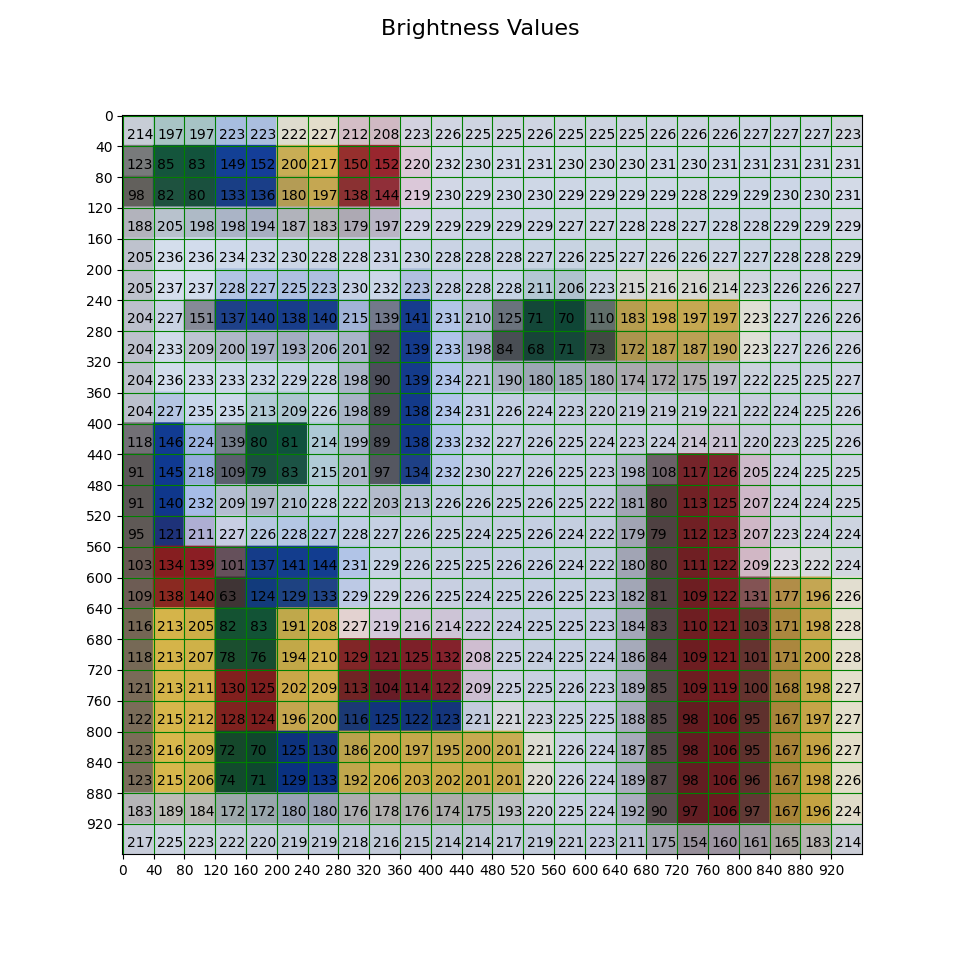
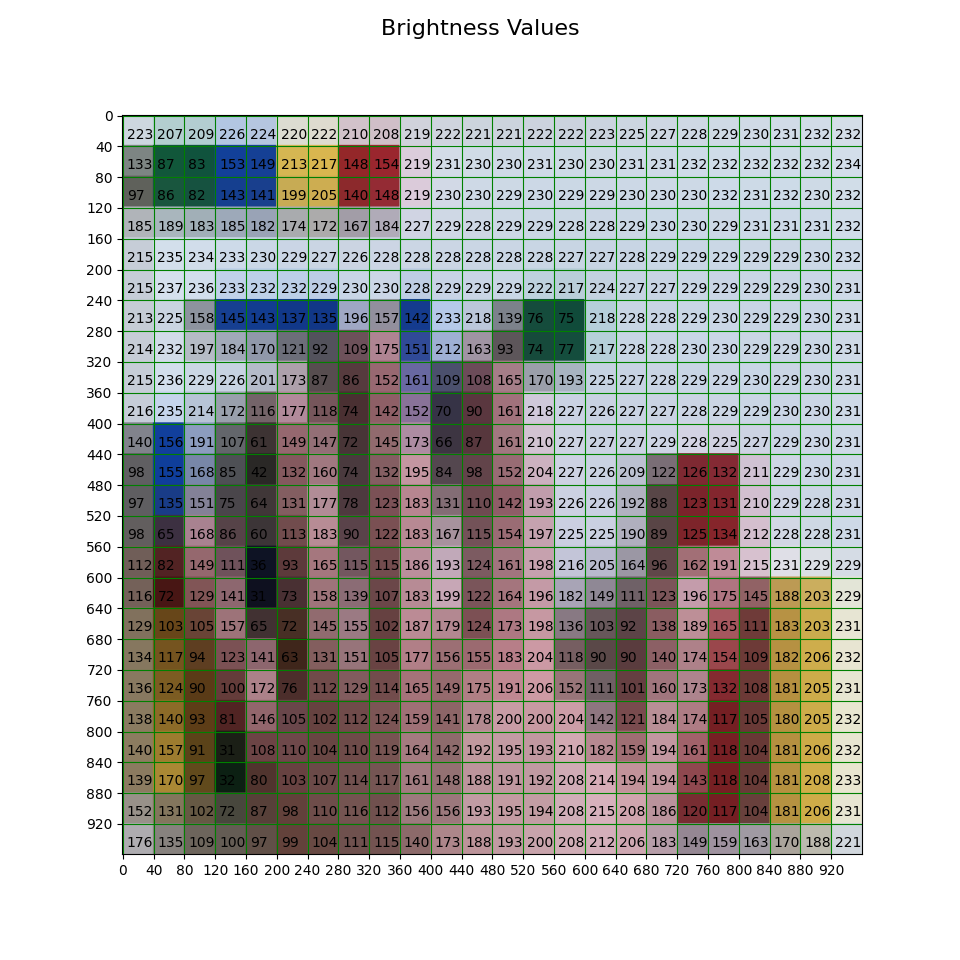
Added detection of unkown regions

diff --git a/colorExperiments.py b/colorExperiments.py
@@ -5,6 +5,14 @@ import cv2
 import matplotlib.pyplot as plt
 import matplotlib.ticker as plticker
 from PIL import Image
+from timeit import default_timer as timer
+
+
+
+# ...
+
+
+
 
 # Take photo
 
@@ -20,13 +28,15 @@ from PIL import Image
 studCount = 24
 
 # Load image into CV
-originalImg = cv2.imread('images/iphone test.jpeg',1)
+originalImg = cv2.imread('images/HandTestA.jpeg',1)
+
+start = timer()
 
 #Corner Coordinates
-topLeft = np.array([396,227])
-topRight = ([771,228])
-bottomLeft =([386,601])
-bottomRight =([772,610])
+topLeft = np.array([343,230])
+topRight = ([724,242])
+bottomLeft =([324,616])
+bottomRight =([719,631])
 pt1 = np.float32([topLeft,topRight,bottomLeft,bottomRight])
 
 # Set height and width of final image
@@ -36,11 +46,11 @@ pt2 = np.float32([[0,0],[width,0],[0,height],[width, height]])
 # Warp the image
 matrix = cv2.getPerspectiveTransform(pt1, pt2)
 warpedImg = cv2.warpPerspective(originalImg, matrix, (width, height))
-cv2.imwrite('images/warpedImg.png', warpedImg)
+#cv2.imwrite('images/warpedImg.png', warpedImg)
 
 # Resize Image
 resizedImg = cv2.resize(warpedImg, (studCount,studCount), interpolation=cv2.INTER_AREA)
-cv2.imwrite('images/resizedImg.png', resizedImg)
+#cv2.imwrite('images/resizedImg.png', resizedImg)
 
 # Convert to HSV
 hsvImg = cv2.cvtColor(resizedImg,cv2.COLOR_BGR2HSV)
@@ -74,17 +84,14 @@ def averageHSV(array,sliceHue = False):
 greenCalib = averageHSV(hsvImg[1:3,1:3])
 blueCalib = averageHSV(hsvImg[1:3,3:5])
 yellowCalib = averageHSV(hsvImg[1:3,5:7])
-redCalib = averageHSV(hsvImg[1:3,7:9],sliceHue = True)
-
-# Special red hue calculation due to centre at 180
-
-
-
+redCalib = averageHSV(hsvImg[1:3,7:9],sliceHue = True) # Special red hue calculation due to centre at 180
+blankCalib = averageHSV(hsvImg[1:3,10:12]) # The calibration value for tiles with no bricks on or shadow
 
 print("Green calibration is {}".format(greenCalib))
 print("Blue calibration is {}".format(blueCalib))
 print("yellow calibration is {}".format(yellowCalib))
 print("Red calibration is {}".format(redCalib))
+print("Blank calibration is {}".format(blankCalib))
 
 # Setting ranges, The + or - range from the detected mean from the calibration blocks
 greenHueRange = 15
@@ -94,17 +101,17 @@ greenBriRange = 40
 greenHueMin = greenCalib[0]-greenHueRange
 greenHueMax = greenCalib[0]+greenHueRange
 greenHueMask = cv2.inRange(hsvImg, np.array([greenHueMin,0,0]), np.array([greenHueMax,255,255]))
-cv2.imwrite('GreenMasks/greenHueMask.png', greenHueMask)
+#cv2.imwrite('GreenMasks/greenHueMask.png', greenHueMask)
 
 greenSatMin = greenCalib[1]-greenSatRange
 greenSatMax = greenCalib[1]+greenSatRange
 greenSatMask = cv2.inRange(hsvImg, np.array([0,greenSatMin,0]), np.array([180,greenSatMax,255]))
-cv2.imwrite('GreenMasks/greenSatMask.png', greenSatMask)
+#cv2.imwrite('GreenMasks/greenSatMask.png', greenSatMask)
 
 greenBriMin = greenCalib[2]-greenBriRange
 greenBriMax = greenCalib[2]+greenBriRange
 greenBriMask = cv2.inRange(hsvImg, np.array([0,0,greenBriMin]), np.array([180,255,greenBriMax]))
-cv2.imwrite('GreenMasks/greenBriMask.png', greenBriMask)
+#cv2.imwrite('GreenMasks/greenBriMask.png', greenBriMask)
 
 greenBricks = np.zeros([studCount,studCount])
 
@@ -114,7 +121,7 @@ for rowIndex in range(greenBricks.shape[0]):
         if (greenHueMask[rowIndex,colIndex] == 255) and (greenSatMask[rowIndex,colIndex] == 255) and (greenBriMask[rowIndex,colIndex] == 255):
             greenBricks[rowIndex,colIndex] = 1
 
-cv2.imwrite('GreenMasks/GreenBricks.png', greenBricks*255)
+#cv2.imwrite('GreenMasks/GreenBricks.png', greenBricks*255)
 
 
 blueHueRange = 10
@@ -124,17 +131,17 @@ blueBriRange = 28
 blueHueMin = blueCalib[0]-blueHueRange
 blueHueMax = blueCalib[0]+blueHueRange
 blueHueMask = cv2.inRange(hsvImg, np.array([blueHueMin,0,0]), np.array([blueHueMax,255,255]))
-cv2.imwrite('BlueMasks/blueHueMask.png', blueHueMask)
+#cv2.imwrite('BlueMasks/blueHueMask.png', blueHueMask)
 
 blueSatMin = blueCalib[1]-blueSatRange
 blueSatMax = blueCalib[1]+blueSatRange
 blueSatMask = cv2.inRange(hsvImg, np.array([0,blueSatMin,0]), np.array([180,blueSatMax,255]))
-cv2.imwrite('BlueMasks/blueSatMask.png', blueSatMask)
+#cv2.imwrite('BlueMasks/blueSatMask.png', blueSatMask)
 
 blueBriMin = blueCalib[2]-blueBriRange
 blueBriMax = blueCalib[2]+blueBriRange
 blueBriMask = cv2.inRange(hsvImg, np.array([0,0,blueBriMin]), np.array([180,255,blueBriMax]))
-cv2.imwrite('BlueMasks/blueBriMask.png', blueBriMask)
+#cv2.imwrite('BlueMasks/blueBriMask.png', blueBriMask)
 
 blueBricks = np.zeros([studCount,studCount])
 
@@ -144,7 +151,7 @@ for rowIndex in range(blueBricks.shape[0]):
         if (blueHueMask[rowIndex,colIndex] == 255) and (blueSatMask[rowIndex,colIndex] == 255) and (blueBriMask[rowIndex,colIndex] == 255):
             blueBricks[rowIndex,colIndex] = 1
 
-cv2.imwrite('BlueMasks/blueBricks.png', blueBricks*255)
+#cv2.imwrite('BlueMasks/blueBricks.png', blueBricks*255)
 
 
 yellowHueRange = 3
@@ -154,17 +161,17 @@ yellowBriRange = 38
 yellowHueMin = yellowCalib[0]-yellowHueRange
 yellowHueMax = yellowCalib[0]+yellowHueRange
 yellowHueMask = cv2.inRange(hsvImg, np.array([yellowHueMin,0,0]), np.array([yellowHueMax,255,255]))
-cv2.imwrite('YellowMasks/yellowHueMask.png', yellowHueMask)
+#cv2.imwrite('YellowMasks/yellowHueMask.png', yellowHueMask)
 
 yellowSatMin = yellowCalib[1]-yellowSatRange
 yellowSatMax = yellowCalib[1]+yellowSatRange
 yellowSatMask = cv2.inRange(hsvImg, np.array([0,yellowSatMin,0]), np.array([180,yellowSatMax,255]))
-cv2.imwrite('YellowMasks/yellowSatMask.png', yellowSatMask)
+#cv2.imwrite('YellowMasks/yellowSatMask.png', yellowSatMask)
 
 yellowBriMin = yellowCalib[2]-yellowBriRange
 yellowBriMax = yellowCalib[2]+yellowBriRange
 yellowBriMask = cv2.inRange(hsvImg, np.array([0,0,yellowBriMin]), np.array([180,255,yellowBriMax]))
-cv2.imwrite('YellowMasks/yellowBriMask.png', yellowBriMask)
+#cv2.imwrite('YellowMasks/yellowBriMask.png', yellowBriMask)
 
 yellowBricks = np.zeros([studCount,studCount])
 
@@ -174,7 +181,7 @@ for rowIndex in range(yellowBricks.shape[0]):
         if (yellowHueMask[rowIndex,colIndex] == 255) and (yellowSatMask[rowIndex,colIndex] == 255) and (yellowBriMask[rowIndex,colIndex] == 255):
             yellowBricks[rowIndex,colIndex] = 1
 
-cv2.imwrite('YellowMasks/yellowBricks.png', yellowBricks*255)
+#cv2.imwrite('YellowMasks/yellowBricks.png', yellowBricks*255)
 
 
 redHueRange = 5
@@ -191,17 +198,17 @@ if (redHueMax >180) and (redHueMin<180):
     redHueMaskMax = cv2.inRange(hsvImg, np.array([0,0,0],dtype='uint8'), np.array([redHueMax-180,255,255],dtype='uint8'))
     redHueMask = redHueMaskMin+redHueMaskMax
 
-cv2.imwrite('RedMasks/redHueMask.png', redHueMask)
+#cv2.imwrite('RedMasks/redHueMask.png', redHueMask)
 
 redSatMin = redCalib[1]-redSatRange
 redSatMax = redCalib[1]+redSatRange
 redSatMask = cv2.inRange(hsvImg, np.array([0,redSatMin,0]), np.array([180,redSatMax,255]))
-cv2.imwrite('RedMasks/redSatMask.png', redSatMask)
+#cv2.imwrite('RedMasks/redSatMask.png', redSatMask)
 
 redBriMin = redCalib[2]-redBriRange
 redBriMax = redCalib[2]+redBriRange
 redBriMask = cv2.inRange(hsvImg, np.array([0,0,redBriMin]), np.array([180,255,redBriMax]))
-cv2.imwrite('RedMasks/redBriMask.png', redBriMask)
+#cv2.imwrite('RedMasks/redBriMask.png', redBriMask)
 
 redBricks = np.zeros([studCount,studCount])
 
@@ -211,16 +218,50 @@ for rowIndex in range(redBricks.shape[0]):
         if (redHueMask[rowIndex,colIndex] == 255) and (redSatMask[rowIndex,colIndex] == 255) and (redBriMask[rowIndex,colIndex] == 255):
             redBricks[rowIndex,colIndex] = 1
 
-cv2.imwrite('RedMasks/redBricks.png', redBricks*255)
+#cv2.imwrite('RedMasks/redBricks.png', redBricks*255)
+
+
+
+# Setting ranges, The + or - range from the detected mean from the calibration blocks
+blankHueRange = 15
+blankSatRange = 60
+blankBriRange = 40
+
+blankHueMin = blankCalib[0]-blankHueRange
+blankHueMax = blankCalib[0]+blankHueRange
+blankHueMask = cv2.inRange(hsvImg, np.array([blankHueMin,0,0]), np.array([blankHueMax,255,255]))
+#cv2.imwrite('BlankMasks/blankHueMask.png', blankHueMask)
+
+blankSatMin = blankCalib[1]-blankSatRange
+blankSatMax = blankCalib[1]+blankSatRange
+blankSatMask = cv2.inRange(hsvImg, np.array([0,blankSatMin,0]), np.array([180,blankSatMax,255]))
+#cv2.imwrite('BlankMasks/blankSatMask.png', blankSatMask)
+
+blankBriMin = blankCalib[2]-blankBriRange
+blankBriMax = blankCalib[2]+blankBriRange
+blankBriMask = cv2.inRange(hsvImg, np.array([0,0,blankBriMin]), np.array([180,255,blankBriMax]))
+#cv2.imwrite('BlankMasks/blankBriMask.png', blankBriMask)
+
+blankBricks = np.zeros([studCount,studCount])
+
+for rowIndex in range(blankBricks.shape[0]):
+    for colIndex in range(blankBricks.shape [1]):
+        if (blankHueMask[rowIndex,colIndex] == 255) and (blankSatMask[rowIndex,colIndex] == 255) and (blankBriMask[rowIndex,colIndex] == 255):
+            blankBricks[rowIndex,colIndex] = 1
+
+#cv2.imwrite('BlankMasks/blankBricks.png', blankBricks*255)
+
+
+
 
 
 # The final stud array containing the different colours at each stud
-# 0 is white, 1=Green, 2=Blue, 3=Yellow, 4=Red, 5=error
+# 0 is unassigned, 1=Green, 2=Blue, 3=Yellow, 4=Red, 5=error, 6=blank
 studArray = np.zeros([studCount,studCount])
 for rowIndex in range(studArray.shape[0]):
     for colIndex in range(studArray.shape [1]):
-        if (greenBricks[rowIndex,colIndex]+blueBricks[rowIndex,colIndex]+yellowBricks[rowIndex,colIndex]+redBricks[rowIndex,colIndex]>1):
-            print("ERROR: overalapping colours at row{} col {}. Colours detected at this position green{}, blue{}, yellow{}, red{}.".format(rowIndex,colIndex,greenBricks[rowIndex,colIndex],blueBricks[rowIndex,colIndex],yellowBricks[rowIndex,colIndex],redBricks[rowIndex,colIndex]))
+        if (greenBricks[rowIndex,colIndex]+blueBricks[rowIndex,colIndex]+yellowBricks[rowIndex,colIndex]+redBricks[rowIndex,colIndex] + blankBricks[rowIndex,colIndex]>1):
+            print("ERROR: overalapping colours at row{} col {}. Colours detected at this position green{}, blue{}, yellow{}, red{}, blank{}.".format(rowIndex,colIndex,greenBricks[rowIndex,colIndex],blueBricks[rowIndex,colIndex],yellowBricks[rowIndex,colIndex],redBricks[rowIndex,colIndex],blankBricks[rowIndex,colIndex]))
             studArray[rowIndex,colIndex] = 5
         elif (greenBricks[rowIndex,colIndex]==1):
             studArray[rowIndex,colIndex] = 1
@@ -230,22 +271,25 @@ for rowIndex in range(studArray.shape[0]):
             studArray[rowIndex,colIndex]= 3
         elif (redBricks[rowIndex,colIndex]==1):
             studArray[rowIndex,colIndex] = 4
+        elif (blankBricks[rowIndex,colIndex]==1):
+            studArray[rowIndex,colIndex] = 6
 
+end = timer()
+print(end - start) # Time in seconds, e.g. 5.38091952400282
 
-
-
+unassigned = np.uint8([0,0,0 ])
 green = np.uint8([77,175,0 ])
 blue = np.uint8([183,108,0 ])
 yellow = np.uint8([0,205,255 ])
 red = np.uint8([33,26,221 ])
 white = np.uint8([244,244,244 ])
-error = np.uint8([0,0,0 ])
+error = np.uint8([0,69,255 ])
 
 # Convert stud array to image for processing
 studVisArray = np.zeros([studCount,studCount,3],'uint8')
 for rowIndex in range(studVisArray.shape[0]):
     for colIndex in range(studVisArray.shape [1]):
-        if studArray[rowIndex,colIndex] == 0:
+        if studArray[rowIndex,colIndex] == 6:
             studVisArray[rowIndex,colIndex] = white
         elif studArray[rowIndex,colIndex] == 1:
             studVisArray[rowIndex,colIndex] = green
@@ -255,6 +299,8 @@ for rowIndex in range(studVisArray.shape[0]):
             studVisArray[rowIndex,colIndex] = yellow
         elif studArray[rowIndex,colIndex] == 4:
             studVisArray[rowIndex,colIndex] = red
+        elif studArray[rowIndex,colIndex] == 0:
+            studVisArray[rowIndex,colIndex] = unassigned
         else:
             studVisArray[rowIndex,colIndex] = error
 
